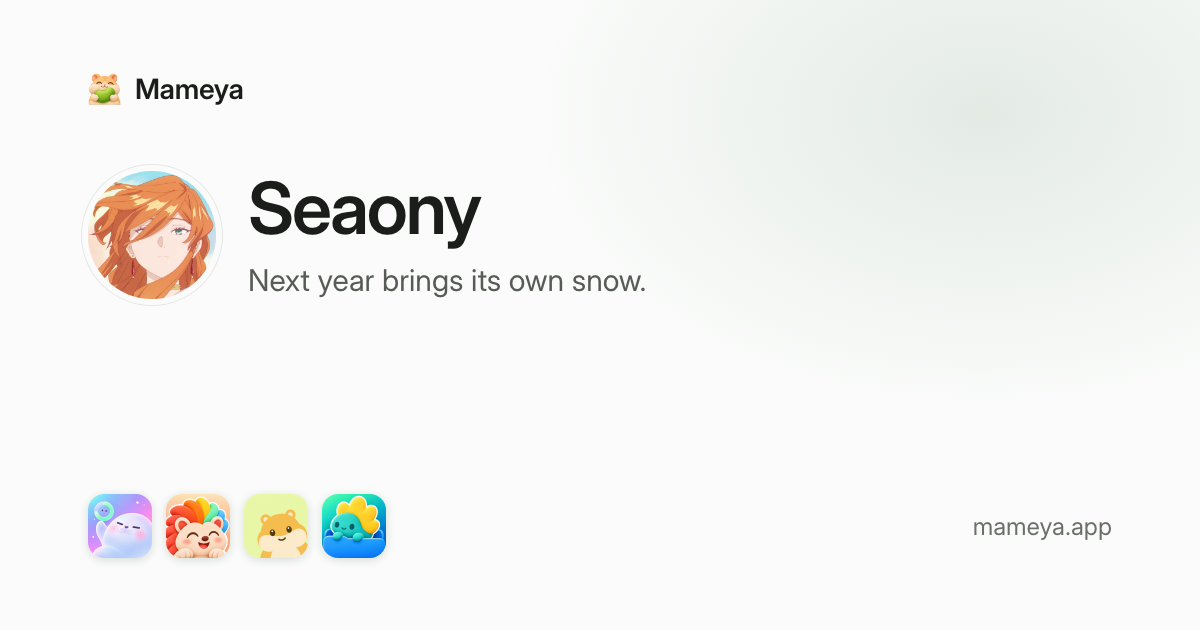
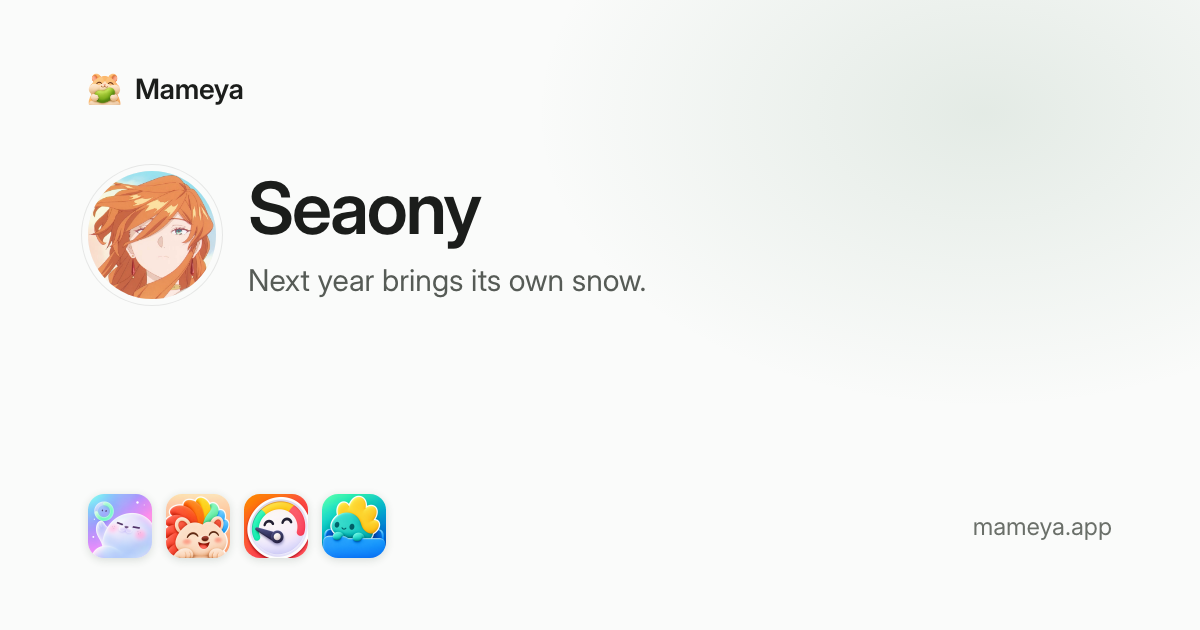
Moni 改名 Monitto，换新图标和标语

Changed region(s): [[0.185, 0.7841, 0.2775, 0.9048]]

diff --git a/src/i18n/ui.ts b/src/i18n/ui.ts
@@ -46,7 +46,7 @@ export const ui: Record<Lang, Dict> = {
   en: {
     title: 'Seaony',
     description:
-      'Seaony is a full-stack developer in Singapore who builds Mac apps, websites and the services behind them, and cares about getting the details right. Projects include CodeEdge, Momento, Moni and Diskit.',
+      'Seaony is a full-stack developer in Singapore who builds Mac apps, websites and the services behind them, and cares about getting the details right. Projects include CodeEdge, Momento, Monitto and Diskit.',
     tagline: 'Next year brings its own snow.',
     intro: [
       'A full-stack developer who makes products.',
@@ -89,14 +89,14 @@ export const ui: Record<Lang, Dict> = {
     apps: {
       codeedge: 'Every AI quota, at the edge of your screen.',
       momento: 'Every image. Quietly kept.',
-      moni: 'A compact menu bar monitor for macOS.',
+      monitto: 'Your Mac, at a glance.',
       diskit: 'Every location. One menu bar.',
       kakatta: 'Watches Xianyu for what you want. Runs in Docker.',
     },
   },
   zh: {
     title: 'Seaony',
-    description: 'Seaony，全栈开发者，人在新加坡。Mac 应用、网站和服务端都写，在意把每个细节做好。作品有 CodeEdge、Momento、Moni 和 Diskit。',
+    description: 'Seaony，全栈开发者，人在新加坡。Mac 应用、网站和服务端都写，在意把每个细节做好。作品有 CodeEdge、Momento、Monitto 和 Diskit。',
     tagline: '明年有明年的雪',
     intro: [
       '一个做产品的全栈开发者。',
@@ -138,7 +138,7 @@ export const ui: Record<Lang, Dict> = {
     apps: {
       codeedge: '所有 AI 额度，停在屏幕边上',
       momento: '灵感图片，安静收好',
-      moni: '一眼看清 Mac 状态',
+      monitto: '点一下菜单栏，看清这台 Mac 的状态',
       diskit: '手机、共享、网盘，都在菜单栏',
       kakatta: '帮你盯着闲鱼，Docker 自己部署',
     },
@@ -146,7 +146,7 @@ export const ui: Record<Lang, Dict> = {
   ja: {
     title: 'Seaony',
     description:
-      'シンガポール在住のフルスタックエンジニア、Seaony。Macアプリ、Webサイト、サーバーサイドまで手がけ、細部まで丁寧に作ることを大切にしています。CodeEdge、Momento、Moni、Diskit。',
+      'シンガポール在住のフルスタックエンジニア、Seaony。Macアプリ、Webサイト、サーバーサイドまで手がけ、細部まで丁寧に作ることを大切にしています。CodeEdge、Momento、Monitto、Diskit。',
     tagline: '来年には来年の雪が降る',
     intro: [
       'プロダクトを作るフルスタックエンジニア。',
@@ -188,7 +188,7 @@ export const ui: Record<Lang, Dict> = {
     apps: {
       codeedge: 'AIの利用枠を、画面の端に',
       momento: '集めた画像を、そっとしまう',
-      moni: 'Macの状態を、ひと目で',
+      monitto: 'Macの状態を、ひと目で',
       diskit: 'スマホも共有フォルダもクラウドも、メニューバーから',
       kakatta: '闲鱼で欲しいものを見張る。Dockerで動く',
     },

diff --git a/src/data/apps.ts b/src/data/apps.ts
@@ -3,14 +3,14 @@
 import type { ImageMetadata } from 'astro';
 import codeedge from '../assets/apps/codeedge.png';
 import momento from '../assets/apps/momento.png';
-import moni from '../assets/apps/moni.png';
+import monitto from '../assets/apps/monitto.png';
 import diskit from '../assets/apps/diskit.png';
 import kakatta from '../assets/apps/kakatta.png';
 import qrWechat from '../assets/qr/wechat.png';
 import qrXiaohongshu from '../assets/qr/xiaohongshu.png';
 import qrDouyin from '../assets/qr/douyin.png';
 
-export type AppId = 'codeedge' | 'momento' | 'moni' | 'diskit' | 'kakatta';
+export type AppId = 'codeedge' | 'momento' | 'monitto' | 'diskit' | 'kakatta';
 
 export interface App {
   id: AppId;
@@ -23,7 +23,7 @@ export interface App {
 export const apps: App[] = [
   { id: 'codeedge', name: 'CodeEdge', url: 'https://codeedge.mameya.app/', icon: codeedge },
   { id: 'momento', name: 'Momento', url: 'https://github.com/Seaony/Momento', icon: momento },
-  { id: 'moni', name: 'Moni', url: 'https://github.com/Seaony/Moni', icon: moni },
+  { id: 'monitto', name: 'Monitto', url: 'https://github.com/Seaony/Monitto', icon: monitto },
   { id: 'diskit', name: 'Diskit', url: 'https://diskit.mameya.app/', icon: diskit },
   { id: 'kakatta', name: 'Kakatta', url: 'https://github.com/Seaony/Kakatta', icon: kakatta, inDevelopment: true },
 ];
